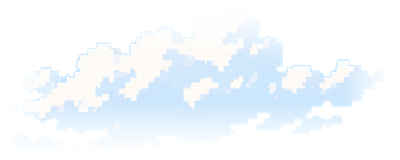
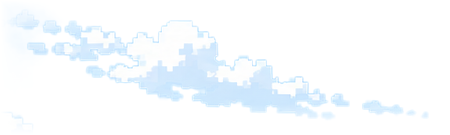
v690: タイトルの背景差し替え、選手は一列で走る、ドットのボール
Claude-Session: https://claude.ai/code/session_011xwpHf6ST3oLGKHevLhbJ7

diff --git a/index.html b/index.html
@@ -1,4 +1,4 @@
-<!doctype html><html lang="ja"><head><meta charset="utf-8"><meta name="viewport" content="width=device-width,initial-scale=1,maximum-scale=1,user-scalable=no,viewport-fit=cover"><meta name="theme-color" content="#0d6b32"><meta name="apple-mobile-web-app-capable" content="yes"><meta name="mobile-web-app-capable" content="yes"><meta name="apple-mobile-web-app-status-bar-style" content="black-translucent"><meta name="apple-mobile-web-app-title" content="ドットサッカー"><script>/* 版487：ホーム画面アプリ・GitHubでは、古い版が残っていたら最新に読み直す */(function(){try{if(!/github\.io$/.test(location.hostname))return;var V='20261008-689';fetch('version.txt?t='+Date.now(),{cache:'no-store'}).then(function(r){return r.ok?r.text():''}).then(function(t){t=(t||'').trim();if(!t||t===V)return;var k='dsrl'+t;if(sessionStorage.getItem(k))return;sessionStorage.setItem(k,'1');location.replace(location.pathname+'?v='+t);}).catch(function(){});}catch(e){}})();</script><title>はじまりFC｜ドットサッカー</title><link rel="icon" href="favicon.svg" type="image/svg+xml"><link rel="manifest" href="manifest.json"><link rel="apple-touch-icon" href="icons/app-180.png"><link rel="preconnect" href="https://fonts.googleapis.com"><link rel="stylesheet" href="https://fonts.googleapis.com/css2?family=DotGothic16&family=M+PLUS+1p:wght@800;900&display=swap"><link rel="stylesheet" href="style.css?v=20261008-689"></head>
+<!doctype html><html lang="ja"><head><meta charset="utf-8"><meta name="viewport" content="width=device-width,initial-scale=1,maximum-scale=1,user-scalable=no,viewport-fit=cover"><meta name="theme-color" content="#0d6b32"><meta name="apple-mobile-web-app-capable" content="yes"><meta name="mobile-web-app-capable" content="yes"><meta name="apple-mobile-web-app-status-bar-style" content="black-translucent"><meta name="apple-mobile-web-app-title" content="ドットサッカー"><script>/* 版487：ホーム画面アプリ・GitHubでは、古い版が残っていたら最新に読み直す */(function(){try{if(!/github\.io$/.test(location.hostname))return;var V='20261008-690';fetch('version.txt?t='+Date.now(),{cache:'no-store'}).then(function(r){return r.ok?r.text():''}).then(function(t){t=(t||'').trim();if(!t||t===V)return;var k='dsrl'+t;if(sessionStorage.getItem(k))return;sessionStorage.setItem(k,'1');location.replace(location.pathname+'?v='+t);}).catch(function(){});}catch(e){}})();</script><title>はじまりFC｜ドットサッカー</title><link rel="icon" href="favicon.svg" type="image/svg+xml"><link rel="manifest" href="manifest.json"><link rel="apple-touch-icon" href="icons/app-180.png"><link rel="preconnect" href="https://fonts.googleapis.com"><link rel="stylesheet" href="https://fonts.googleapis.com/css2?family=DotGothic16&family=M+PLUS+1p:wght@800;900&display=swap"><link rel="stylesheet" href="style.css?v=20261008-690"></head>
 <body><main id="app">
  <header><div class="brand"><span class="crest">H</span><div><b>はじまりFC</b><small>タイプで動きが変わる、90分。</small></div></div><div class="head-btns"><button id="goCareer" class="quiet">育成モード</button><button id="newGame" class="quiet">フリー試合</button></div></header>
  <button id="mMenu" class="m-menu" type="button">メニュー</button>
@@ -8,7 +8,7 @@
 <div id="mDev" class="st-devrow" hidden><span>開発用</span><button data-m="testcoin">コイン＋10,000</button><button data-m="testkk">カケラ＋1,000</button><button data-m="champdemo">優勝の演出</button></div>
 <p class="st-cap">サウンド</p><div class="st-snd"><button data-m="sfx" id="mSfx" class="st-tg on"><svg viewBox="0 0 32 28" aria-hidden="true"><path d="M3 10h6l8-7v22l-8-7H3z" fill="#2d6fe0" stroke="#123a86" stroke-width="1.6" stroke-linejoin="round"/><path d="M21 9c2 2.6 2 7.4 0 10M25 5c4 5 4 13 0 18" stroke="#2d6fe0" stroke-width="2.6" fill="none" stroke-linecap="round"/></svg><span>効果音</span><i class="st-sw"><em>ON</em></i></button><button data-m="bgm" id="mBgm" class="st-tg on"><svg viewBox="0 0 28 28" aria-hidden="true"><path d="M9 21V5l15-3v16" stroke="#123a86" stroke-width="3" fill="none"/><ellipse cx="6" cy="21.5" rx="4.2" ry="3.4" fill="#2d6fe0" stroke="#123a86" stroke-width="1.6"/><ellipse cx="21" cy="18.5" rx="4.2" ry="3.4" fill="#2d6fe0" stroke="#123a86" stroke-width="1.6"/></svg><span>BGM</span><i class="st-sw"><em>ON</em></i></button></div>
 <div class="st-more"><button data-m="fs" id="mFull">全画面にする</button><button data-m="tab" id="mTab">ブラウザで開く</button></div>
-<div class="st-ft"><span>バージョン　20261008-689</span><button data-m="close" class="st-close">閉じる</button></div></div></div></div>
+<div class="st-ft"><span>バージョン　20261008-690</span><button data-m="close" class="st-close">閉じる</button></div></div></div></div>
  <section id="setup" class="setup" hidden><div class="setup-card"><p class="eyebrow">試合の日</p><h1>試合をはじめよう</h1><p>個性の違う16人が、ピッチでどんな動きをするか見てみよう。</p><label>選手のレベル<select id="level"><option value="low">育成序盤（ほぼD〜E）</option><option value="s">オールS同士（カルチョビットAの動画と同じ）</option><option value="vs">自分は育成序盤・相手はオールS</option></select></label><label>対戦相手<select id="opponent"><option>バランス型</option><option>堅守型</option><option>パス型</option><option>プレス型</option><option>走力型</option><option>裏抜け型</option></select></label><div class="seed"><label>試合シード（空欄なら毎回ちがう試合）<input id="seed" type="number" value="" min="1" placeholder="空欄＝毎回ちがう試合"></label><button id="start" class="primary">キックオフ</button></div><p id="startupError" class="startup-error" role="alert" hidden></p></div><div id="roster" class="roster"></div></section>
  <section id="career" class="career2" hidden>
   <div id="cv-home" class="cv home2 h2wait">
@@ -38,4 +38,4 @@
  <div id="panel" class="modal" hidden><div class="sheet"><button class="close xbtn" aria-label="閉じる"><img class="xbtn-img" src="icons/ui_close.png" alt="×" draggable="false"></button><div id="panelContent"></div></div></div>
  <div id="half" class="modal" hidden><div class="locker"><div class="locker-art"><span>▥</span><span>▥</span><span>▥</span></div><p class="eyebrow">ハーフタイム</p><h2>前半終了</h2><div id="halfStats" class="half-stats"></div><p>選手の疲労を確認して、後半へ進みましょう。</p><div class="half-actions"><button data-panel="players">選手の疲労</button><button data-panel="subs">選手交代</button><button id="htTac" hidden>選手交代</button><button id="second" class="primary">後半開始</button></div></div></div>
  </main>
- <div id="rotate"><div><span class="ph"></span>スマホを横向きにしてね<br><small>横画面で遊ぶゲームです</small></div></div><script src="engine/engine.js?v=20261008-689"></script><script src="sprites/gpt.js?v=20261008-689"></script><script src="sprites/run_art.js?v=20261008-689"></script><script src="sprites/dotman.js?v=20261008-689"></script><script src="sound.js?v=20261008-689"></script><script src="app.js?v=20261008-689"></script><script src="teams.js?v=20261008-689"></script><script src="rosters.js?v=20261008-689"></script><script src="career.js?v=20261008-689"></script><script src="faces/faces.js?v=20261008-689"></script><script src="faces/stars.js?v=20261008-689"></script><script src="tutorial.js?v=20261008-689"></script><script src="net.js?v=20261008-689"></script><script src="career-ui.js?v=20261008-689"></script></body></html>
+ <div id="rotate"><div><span class="ph"></span>スマホを横向きにしてね<br><small>横画面で遊ぶゲームです</small></div></div><script src="engine/engine.js?v=20261008-690"></script><script src="sprites/gpt.js?v=20261008-690"></script><script src="sprites/run_art.js?v=20261008-690"></script><script src="sprites/dotman.js?v=20261008-690"></script><script src="sound.js?v=20261008-690"></script><script src="app.js?v=20261008-690"></script><script src="teams.js?v=20261008-690"></script><script src="rosters.js?v=20261008-690"></script><script src="career.js?v=20261008-690"></script><script src="faces/faces.js?v=20261008-690"></script><script src="faces/stars.js?v=20261008-690"></script><script src="tutorial.js?v=20261008-690"></script><script src="net.js?v=20261008-690"></script><script src="career-ui.js?v=20261008-690"></script></body></html>

diff --git a/uniqlab.html b/uniqlab.html
@@ -1,4 +1,4 @@
-<!doctype html><html lang="ja"><head><meta charset="utf-8"><meta name="viewport" content="width=device-width,initial-scale=1,maximum-scale=1,user-scalable=no,viewport-fit=cover"><meta name="theme-color" content="#0d6b32"><meta name="apple-mobile-web-app-capable" content="yes"><meta name="mobile-web-app-capable" content="yes"><meta name="apple-mobile-web-app-status-bar-style" content="black-translucent"><meta name="apple-mobile-web-app-title" content="ドットサッカー"><title>固有スキルの確認</title><link rel="icon" href="favicon.svg" type="image/svg+xml"><link rel="preconnect" href="https://fonts.googleapis.com"><link rel="stylesheet" href="https://fonts.googleapis.com/css2?family=DotGothic16&family=M+PLUS+1p:wght@800;900&display=swap"><link rel="stylesheet" href="style.css?v=20261008-689"></head>
+<!doctype html><html lang="ja"><head><meta charset="utf-8"><meta name="viewport" content="width=device-width,initial-scale=1,maximum-scale=1,user-scalable=no,viewport-fit=cover"><meta name="theme-color" content="#0d6b32"><meta name="apple-mobile-web-app-capable" content="yes"><meta name="mobile-web-app-capable" content="yes"><meta name="apple-mobile-web-app-status-bar-style" content="black-translucent"><meta name="apple-mobile-web-app-title" content="ドットサッカー"><title>固有スキルの確認</title><link rel="icon" href="favicon.svg" type="image/svg+xml"><link rel="preconnect" href="https://fonts.googleapis.com"><link rel="stylesheet" href="https://fonts.googleapis.com/css2?family=DotGothic16&family=M+PLUS+1p:wght@800;900&display=swap"><link rel="stylesheet" href="style.css?v=20261008-690"></head>
 <body><main id="app">
  <header><div class="brand"><span class="crest">H</span><div><b>はじまりFC</b><small>タイプで動きが変わる、90分。</small></div></div><div class="head-btns"><button id="goCareer" class="quiet">育成モード</button><button id="newGame" class="quiet">フリー試合</button></div></header>
  <button id="mMenu" class="m-menu" type="button">メニュー</button>
@@ -8,7 +8,7 @@
 <div id="mDev" class="st-devrow" hidden><span>開発用</span><button data-m="testcoin">コイン＋10,000</button><button data-m="testkk">カケラ＋1,000</button><button data-m="champdemo">優勝の演出</button></div>
 <p class="st-cap">サウンド</p><div class="st-snd"><button data-m="sfx" id="mSfx" class="st-tg on"><svg viewBox="0 0 32 28" aria-hidden="true"><path d="M3 10h6l8-7v22l-8-7H3z" fill="#2d6fe0" stroke="#123a86" stroke-width="1.6" stroke-linejoin="round"/><path d="M21 9c2 2.6 2 7.4 0 10M25 5c4 5 4 13 0 18" stroke="#2d6fe0" stroke-width="2.6" fill="none" stroke-linecap="round"/></svg><span>効果音</span><i class="st-sw"><em>ON</em></i></button><button data-m="bgm" id="mBgm" class="st-tg on"><svg viewBox="0 0 28 28" aria-hidden="true"><path d="M9 21V5l15-3v16" stroke="#123a86" stroke-width="3" fill="none"/><ellipse cx="6" cy="21.5" rx="4.2" ry="3.4" fill="#2d6fe0" stroke="#123a86" stroke-width="1.6"/><ellipse cx="21" cy="18.5" rx="4.2" ry="3.4" fill="#2d6fe0" stroke="#123a86" stroke-width="1.6"/></svg><span>BGM</span><i class="st-sw"><em>ON</em></i></button></div>
 <div class="st-more"><button data-m="fs" id="mFull">全画面にする</button><button data-m="tab" id="mTab">ブラウザで開く</button></div>
-<div class="st-ft"><span>バージョン　20261008-689</span><button data-m="close" class="st-close">閉じる</button></div></div></div></div>
+<div class="st-ft"><span>バージョン　20261008-690</span><button data-m="close" class="st-close">閉じる</button></div></div></div></div>
  <section id="setup" class="setup" hidden><div class="setup-card"><p class="eyebrow">試合の日</p><h1>試合をはじめよう</h1><p>個性の違う16人が、ピッチでどんな動きをするか見てみよう。</p><label>選手のレベル<select id="level"><option value="low">育成序盤（ほぼD〜E）</option><option value="s">オールS同士（カルチョビットAの動画と同じ）</option><option value="vs">自分は育成序盤・相手はオールS</option></select></label><label>対戦相手<select id="opponent"><option>バランス型</option><option>堅守型</option><option>パス型</option><option>プレス型</option><option>走力型</option><option>裏抜け型</option></select></label><div class="seed"><label>試合シード（空欄なら毎回ちがう試合）<input id="seed" type="number" value="" min="1" placeholder="空欄＝毎回ちがう試合"></label><button id="start" class="primary">キックオフ</button></div><p id="startupError" class="startup-error" role="alert" hidden></p></div><div id="roster" class="roster"></div></section>
  <section id="career" class="career2" hidden>
   <div id="cv-home" class="cv home2 h2wait">
@@ -38,4 +38,4 @@
  <div id="panel" class="modal" hidden><div class="sheet"><button class="close xbtn" aria-label="閉じる"><img class="xbtn-img" src="icons/ui_close.png" alt="×" draggable="false"></button><div id="panelContent"></div></div></div>
  <div id="half" class="modal" hidden><div class="locker"><div class="locker-art"><span>▥</span><span>▥</span><span>▥</span></div><p class="eyebrow">ハーフタイム</p><h2>前半終了</h2><div id="halfStats" class="half-stats"></div><p>選手の疲労を確認して、後半へ進みましょう。</p><div class="half-actions"><button data-panel="players">選手の疲労</button><button data-panel="subs">選手交代</button><button id="htTac" hidden>選手交代</button><button id="second" class="primary">後半開始</button></div></div></div>
  </main>
- <div id="rotate"><div><span class="ph"></span>スマホを横向きにしてね<br><small>横画面で遊ぶゲームです</small></div></div><script src="engine/engine.js?v=20261008-689"></script><script src="sprites/gpt.js?v=20261008-689"></script><script src="sprites/run_art.js?v=20261008-689"></script><script src="sprites/dotman.js?v=20261008-689"></script><script src="sound.js?v=20261008-689"></script><script src="app.js?v=20261008-689"></script><script src="teams.js?v=20261008-689"></script><script src="rosters.js?v=20261008-689"></script><script src="career.js?v=20261008-689"></script><script src="faces/faces.js?v=20261008-689"></script><script src="faces/stars.js?v=20261008-689"></script><script src="net.js?v=20261008-689"></script><script src="career-ui.js?v=20261008-689"></script><script src="uniqlab.js?v=20261008-689"></script></body></html>
+ <div id="rotate"><div><span class="ph"></span>スマホを横向きにしてね<br><small>横画面で遊ぶゲームです</small></div></div><script src="engine/engine.js?v=20261008-690"></script><script src="sprites/gpt.js?v=20261008-690"></script><script src="sprites/run_art.js?v=20261008-690"></script><script src="sprites/dotman.js?v=20261008-690"></script><script src="sound.js?v=20261008-690"></script><script src="app.js?v=20261008-690"></script><script src="teams.js?v=20261008-690"></script><script src="rosters.js?v=20261008-690"></script><script src="career.js?v=20261008-690"></script><script src="faces/faces.js?v=20261008-690"></script><script src="faces/stars.js?v=20261008-690"></script><script src="net.js?v=20261008-690"></script><script src="career-ui.js?v=20261008-690"></script><script src="uniqlab.js?v=20261008-690"></script></body></html>

diff --git a/tutorial.js b/tutorial.js
@@ -121,39 +121,65 @@
       const SW = 1850, SH = 850;
       const fit = () => { const w = el.clientWidth || 1280, h = el.clientHeight || 720, k = Math.max(w / SW, h / SH); stage.style.transform = `translate(${(w - SW * k) / 2}px,${(h - SH * k) / 2}px) scale(${k})`; };
       fit(); addEventListener('resize', fit);
-      // 選手（試合と同じドット絵）。走りの絵をゆっくり切りかえて「歩き」にする
-      const ppl = [];
+      // 版690：選手が一列になって走る。先頭がボールをドリブル（ボールはドット絵で、転がると回る）
+      const ppl = [], N = 5, GAP = 150, V = 165;
       try {
-        const look = [[0, 0, 0], [1, 1, 1], [2, 2, 0], [3, 0, 2], [1, 2, 1]];
+        const look = [[2, 2, 0], [0, 0, 1], [1, 1, 2], [3, 0, 0], [1, 2, 1]];
         look.forEach(([hair, hc, skin], k) => {
-          const team = k % 2, info = { name: '', number: 1 + k, hair, hairColor: hc, skin, position: 'MF' };
-          const fr = [0, 1, 2, 3].map((f) => A().spriteCanvas(info, team, 'side', f, true, false));
+          const info = { name: '', number: 1 + k, hair, hairColor: hc, skin, position: 'MF' };
+          const fr = [0, 1, 2, 3].map((f) => A().spriteCanvas(info, 0, 'side', f, true, false));
           if (!fr[0]) return;
           const box = document.createElement('div'); box.className = 'ttl-man';
           const cv = document.createElement('canvas'); cv.width = fr[0].width; cv.height = fr[0].height; box.appendChild(cv);
-          const ball = document.createElement('i'); ball.className = 'ttl-ball'; ball.hidden = true; box.appendChild(ball);
-          men.appendChild(box);
-          const dir = k % 2 ? -1 : 1;
-          ppl.push({ box, cv, fr, ball, dir, x: 120 + k * 380 + Math.random() * 80, y: 565 + ((k * 37) % 5) * 22, sp: 34 + Math.random() * 14, drib: 0, next: 3 + k * 5 + Math.random() * 4, t: Math.random() * 4 });
+          men.appendChild(box); ppl.push({ box, cv, fr, t: k * 0.7 });
         });
       } catch (_) {}
+      // ボール：14×14ドット。サッカーボールの黒い五角形（正二十面体の頂点の向き）を、転がった角度で回して描く
+      const BP = (() => { const t = (1 + Math.sqrt(5)) / 2, v = []; for (const a of [-1, 1]) for (const b of [-t, t]) v.push([0, a, b], [a, b, 0], [b, 0, a]); return v.map((q) => { const n = Math.hypot(...q); return q.map((u) => u / n); }); })();
+      const bwrap = document.createElement('div'); bwrap.className = 'ttl-bw'; const bcv = document.createElement('canvas'); bcv.width = 14; bcv.height = 14; bwrap.appendChild(bcv); men.appendChild(bwrap);
+      const bctx = bcv.getContext('2d'), bimg = bctx.createImageData(14, 14);
+      const drawBall = (ang) => {
+        const c = Math.cos(ang), s = Math.sin(ang), d = bimg.data;
+        for (let py = 0; py < 14; py++) for (let px = 0; px < 14; px++) {
+          const x = (px + 0.5 - 7) / 6.3, y = (py + 0.5 - 7) / 6.3, rr = x * x + y * y, o = (py * 14 + px) * 4;
+          if (rr > 1) { d[o + 3] = 0; continue; }
+          let col;
+          if (rr > 0.7) col = [27, 42, 74];   // ふち
+          else {
+            const z = Math.sqrt(1 - rr);
+            // 画面の奥向きの軸で回す（横に転がる）＋少し傾けて模様を見やすく
+            const rx = x * c + y * s, ry = -x * s + y * c, ty = ry * 0.9 - z * 0.44, tz = ry * 0.44 + z * 0.9;
+            let best = -1; for (const q of BP) { const dd = q[0] * rx + q[1] * ty + q[2] * tz; if (dd > best) best = dd; }
+            const lit = 0.78 + 0.22 * (-x * 0.5 - y * 0.6 + z * 0.6);
+            col = best > 0.925 ? [30, 34, 48] : [Math.min(255, 255 * lit), Math.min(255, 255 * lit), Math.min(255, 258 * lit)];
+          }
+          d[o] = col[0]; d[o + 1] = col[1]; d[o + 2] = col[2]; d[o + 3] = 255;
+        }
+        bctx.putImageData(bimg, 0, 0);
+      };
+      let dir = 1, head = -160, rowY = 556, wait = 0, bx = 0, bv = 0, bang = 0, lap = 0;
+      const startLap = () => { head = dir > 0 ? -160 : SW + 160; rowY = lap % 2 ? 578 : 556; bx = head + dir * 92; bv = 0; };
+      startLap();
       let last = performance.now(), raf = 0;
       const tick = (now) => {
         if (!el.isConnected) return;
         const dt = Math.max(0, Math.min(0.1, (now - last) / 1000)); last = now;
-        for (const p of ppl) {
-          p.next -= dt;
-          if (p.drib > 0) p.drib -= dt; else if (p.next <= 0 && !ppl.some((q) => q.drib > 0) && p.x > 100 && p.x < SW - 260) { p.drib = 2.5 + Math.random() * 2; p.next = 12 + Math.random() * 16; }   // ドリブルは一度にひとりだけ
-          const fast = p.drib > 0, v = fast ? p.sp * 2.4 : p.sp;
-          p.x += v * p.dir * dt; p.t += dt * (fast ? 9 : 4.2);
-          if (p.dir > 0 && p.x > SW + 80) { p.x = -120; p.y = 560 + Math.random() * 100; }
-          if (p.dir < 0 && p.x < -120) { p.x = SW + 80; p.y = 560 + Math.random() * 100; }
-          const f = ((Math.floor(p.t) % 4) + 4) % 4, c = p.cv.getContext('2d'); c.clearRect(0, 0, p.cv.width, p.cv.height); c.drawImage(p.fr[f], 0, 0);
-          p.box.style.transform = `translate(${p.x}px,${p.y}px)`; p.box.style.zIndex = Math.round(p.y);
-          p.cv.style.transform = p.dir < 0 ? 'scaleX(-1)' : '';
-          p.ball.hidden = !fast;
-          if (fast) { const kick = (Math.floor(p.t) % 4) < 2 ? 1 : 0; p.ball.style.transform = `translate(${p.dir > 0 ? 66 + kick * 10 : -2 - kick * 10}px,0)`; }
+        if (wait > 0) { wait -= dt; if (wait <= 0) { lap++; dir = -dir; startLap(); } }
+        else {
+          head += dir * V * dt;
+          // ボール：先頭の足が追いついたら軽く蹴り出す。転がりながら少しずつ遅くなる
+          const foot = head + dir * 70;
+          if ((bx - foot) * dir < 16) bv = V * 1.85;
+          bv = Math.max(0, bv - 230 * dt); bx += dir * bv * dt; bang += dir * (bv * dt) / 13;
+          const tail = head - dir * GAP * (ppl.length - 1);
+          if ((dir > 0 && tail > SW + 120) || (dir < 0 && tail < -220)) wait = 1.6;
         }
+        ppl.forEach((p, i) => {
+          const x = head - dir * GAP * i - 45; p.t += dt * 9;
+          const f = ((Math.floor(p.t) % 4) + 4) % 4, c = p.cv.getContext('2d'); c.clearRect(0, 0, p.cv.width, p.cv.height); c.drawImage(p.fr[f], 0, 0);
+          p.box.style.transform = `translate(${x}px,${rowY}px)`; p.cv.style.transform = dir > 0 ? 'scaleX(-1)' : '';   // 横向きの絵は左向きなので、右へ走る時に裏返す
+        });
+        drawBall(bang); bwrap.style.transform = `translate(${bx - 17}px,${rowY + 120 - 32}px)`;
         raf = requestAnimationFrame(tick);
       };
       raf = requestAnimationFrame(tick);

diff --git a/style.css b/style.css
@@ -3537,3 +3537,7 @@ html.short .rbtns.rb-img button{width:80px!important;height:80px!important}
 #ttTitle .ttl-tap{bottom:9%;font-size:34px;font-weight:900;letter-spacing:.06em;color:#fff;text-shadow:0 4px 0 #13233f,3px 0 0 #13233f,-3px 0 0 #13233f,0 -3px 0 #13233f,2px 2px 0 #13233f,-2px 2px 0 #13233f,2px -2px 0 #13233f,-2px -2px 0 #13233f;animation:ttltap 2.4s ease-in-out infinite;z-index:4}
 @keyframes ttltap{0%,100%{opacity:1}50%{opacity:.35}}
 #ttTitle .ttl-ver{z-index:4;font-weight:800;opacity:.85;text-shadow:0 1px 2px rgba(0,0,0,.5);font-size:14px}
+/* 版690：一列で走る選手とドットのボール */
+#ttTitle .ttl-bw{position:absolute;left:0;top:0;width:34px;height:34px;z-index:2}
+#ttTitle .ttl-bw::before{content:"";position:absolute;left:3px;bottom:-5px;width:30px;height:8px;border-radius:50%;background:rgba(0,40,0,.3)}
+#ttTitle .ttl-bw canvas{position:relative;width:34px;height:34px;image-rendering:pixelated;display:block}

diff --git a/docs/rules-players.md b/docs/rules-players.md
@@ -1225,3 +1225,9 @@
   - 選手：試合と同じドット絵が5人、手前をゆっくり歩く（左向き・右向き）。たまにひとりだけドリブル（少し速く、足もとにボール）。
   - 「画面をタップしてはじめる」は、ふわっと点滅（2.4秒で うすく→はっきり）。右下にバージョン。
   - 画面の大きさがちがっても、絵が画面いっぱいになるように合わせる（はみ出た所は切る）。
+
+## 版20261008-690
+- タイトル画面：背景を、送ってもらった新しいスタジアムの絵に差し替え（上の方の雲は消して、流れる雲3つを同じ絵から切り出した）。
+- 選手は5人が一列になって走る（右へ→左へを交互に。1回ごとに少し前後の位置を変える）。横向きの絵の向きを直した（前は後ろ向きに走っていた）。
+- 先頭の選手がボールをドリブル：足が追いつくと軽く蹴り出し、転がりながら少しずつ遅くなる。ボールは14×14ドットのサッカーボールの絵で、転がった分だけ回る。影つき。
+- 選手の列を少し上に（「画面をタップしてはじめる」の文字に足がかからないように）。
